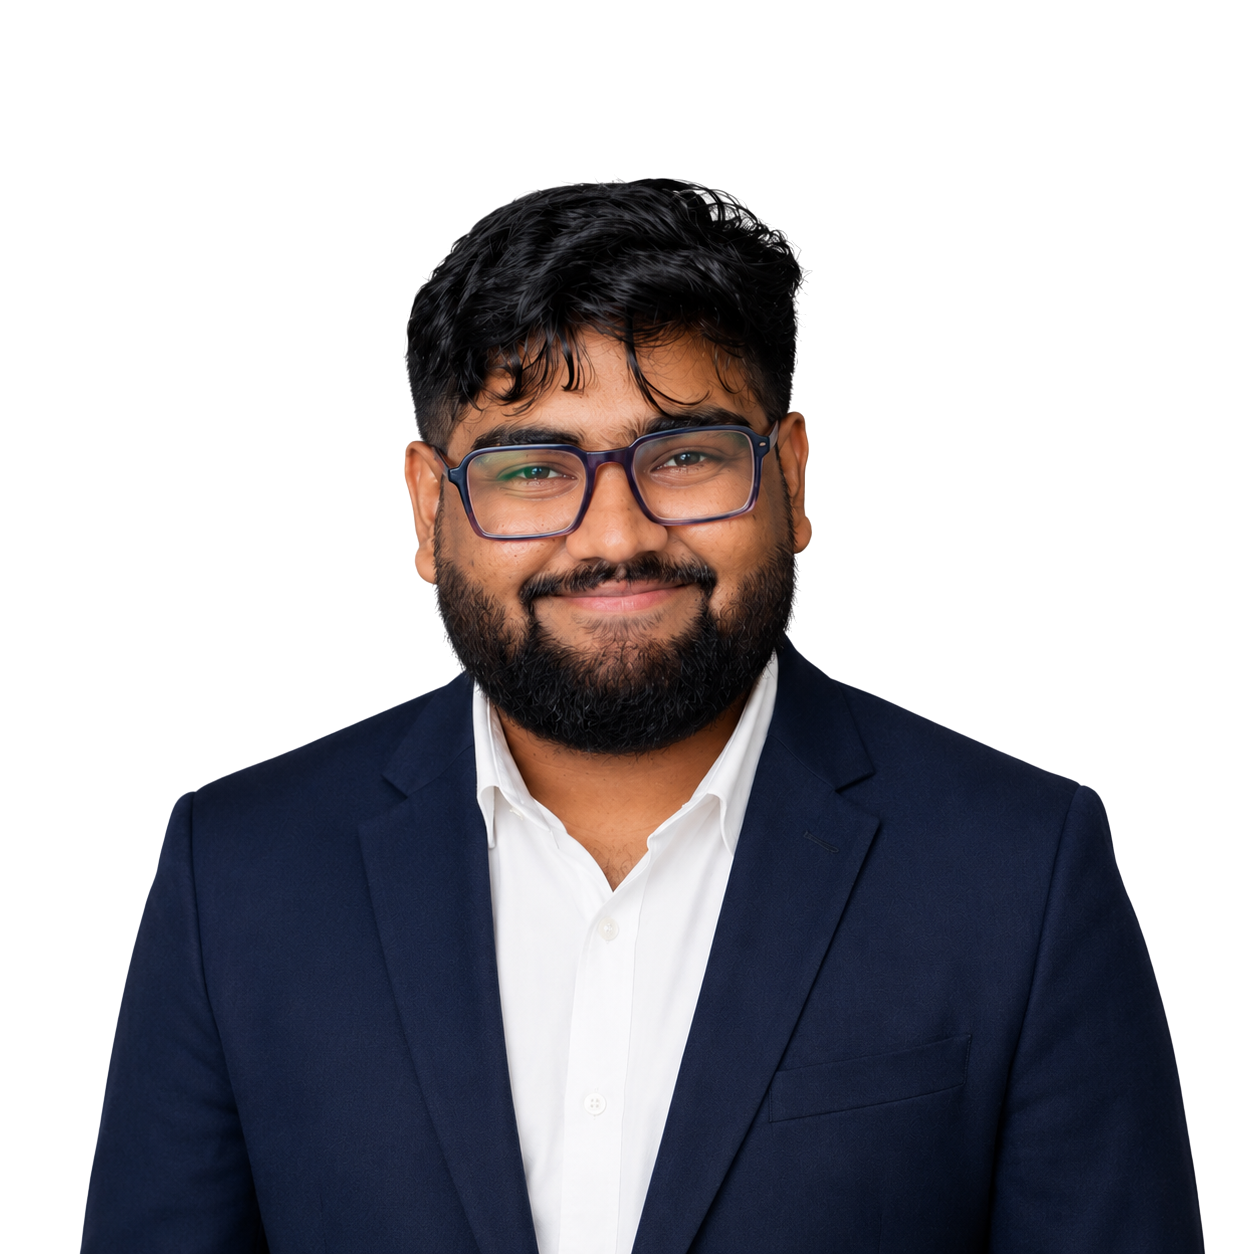
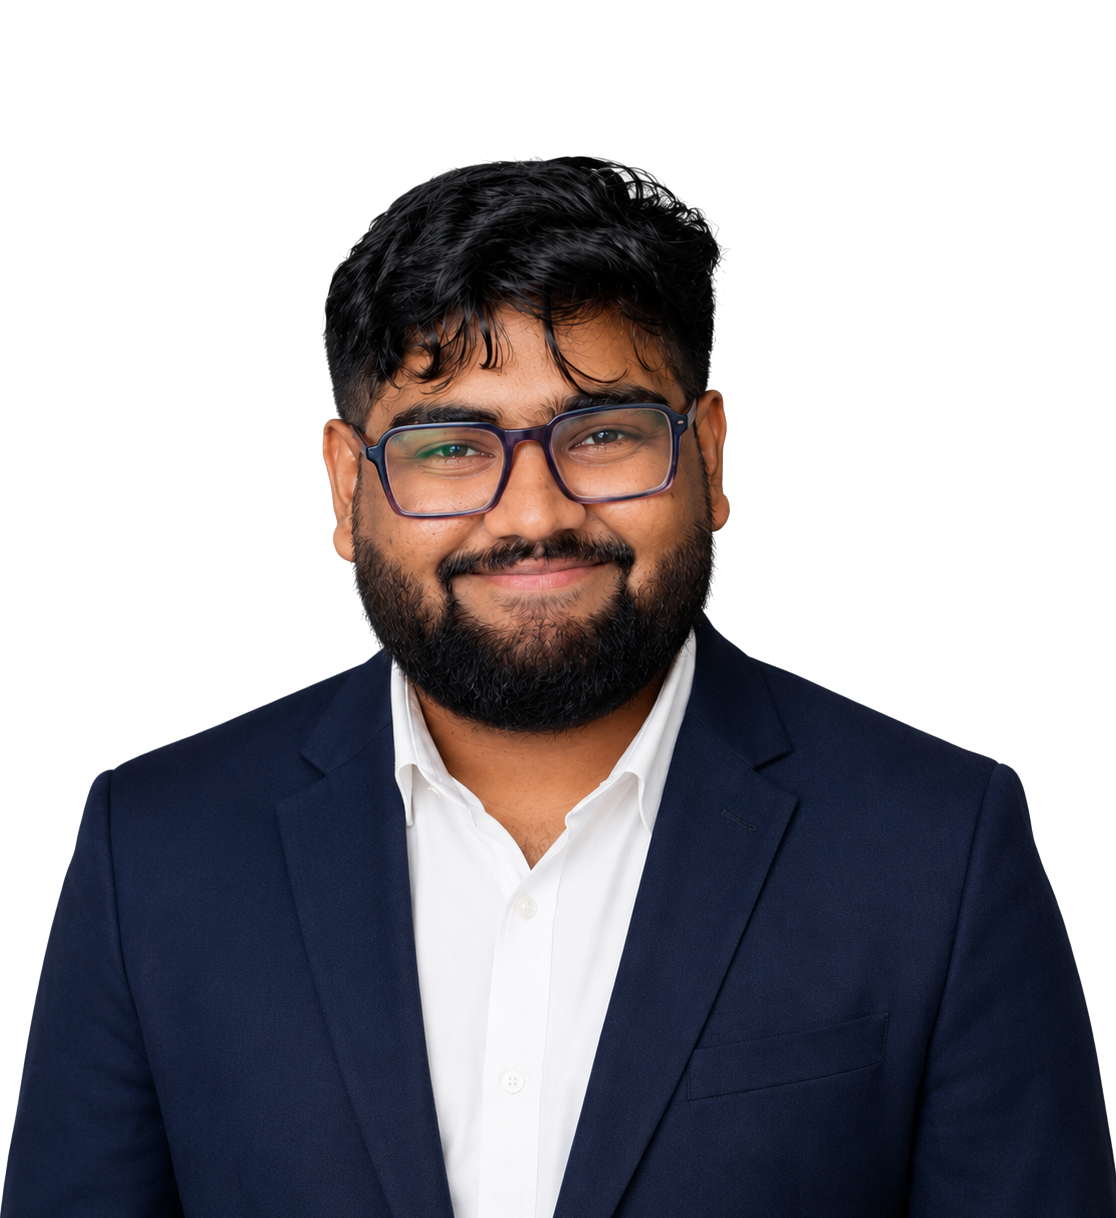
feat: update brand assets and improve meta tags for SEO

diff --git a/src/routes/__root.tsx b/src/routes/__root.tsx
@@ -10,7 +10,10 @@ import {
 import { useEffect, type ReactNode } from "react";
 
 import appCss from "../styles.css?url";
-import logoUrl from "../assets/logo.png";
+import favicon512 from "../assets/brand/favicon-512.png";
+import favicon32 from "../assets/brand/favicon-32.png";
+import appleTouchIcon from "../assets/brand/apple-touch-icon.png";
+import ogImage from "../assets/brand/og-image.png";
 import { reportLovableError } from "../lib/lovable-error-reporting";
 
 function NotFoundComponent() {
@@ -78,15 +81,25 @@ export const Route = createRootRouteWithContext<{ queryClient: QueryClient }>()(
     meta: [
       { charSet: "utf-8" },
       { name: "viewport", content: "width=device-width, initial-scale=1" },
-      { title: "Scaling Ventures - Premium Real Estate & Integrated Communities" },
-      { name: "description", content: "Scaling Ventures builds landmark residential, commercial, and integrated township developments crafted for modern Indian luxury living." },
-      { property: "og:title", content: "Scaling Ventures - Premium Real Estate" },
-      { property: "og:description", content: "Landmark residential, commercial, and integrated township developments." },
+      { name: "theme-color", content: "#0C2A4D" },
+      { title: "Scaling Ventures Pvt. Ltd. - Construction & Real Estate, Chennai" },
+      { name: "description", content: "Scaling Ventures is a professionally managed construction and real-estate development firm in Chennai, delivering innovative, sustainable and high-quality residential developments." },
+      { property: "og:site_name", content: "Scaling Ventures Pvt. Ltd." },
+      { property: "og:title", content: "Scaling Ventures Pvt. Ltd. - Construction & Real Estate, Chennai" },
+      { property: "og:description", content: "A professionally managed construction and real-estate development firm building thoughtfully planned residential developments across Chennai." },
       { property: "og:type", content: "website" },
+      { property: "og:image", content: ogImage },
+      { property: "og:image:width", content: "1200" },
+      { property: "og:image:height", content: "630" },
       { name: "twitter:card", content: "summary_large_image" },
+      { name: "twitter:title", content: "Scaling Ventures Pvt. Ltd. - Construction & Real Estate, Chennai" },
+      { name: "twitter:description", content: "Thoughtfully planned residential developments built on excellence, transparency and timely execution." },
+      { name: "twitter:image", content: ogImage },
     ],
     links: [
-      { rel: "icon", type: "image/png", href: logoUrl },
+      { rel: "icon", type: "image/png", sizes: "32x32", href: favicon32 },
+      { rel: "icon", type: "image/png", sizes: "512x512", href: favicon512 },
+      { rel: "apple-touch-icon", sizes: "180x180", href: appleTouchIcon },
       { rel: "preconnect", href: "https://fonts.googleapis.com" },
       { rel: "preconnect", href: "https://fonts.gstatic.com", crossOrigin: "anonymous" },
       { rel: "stylesheet", href: "https://fonts.googleapis.com/css2?family=Cormorant+Garamond:wght@400;500;600;700&family=Inter:wght@300;400;500;600&display=swap" },

diff --git a/src/routes/index.tsx b/src/routes/index.tsx
@@ -26,8 +26,8 @@ const INK = "#15233B";
 const WHITE = "#FFFFFF";
 const MIST = "#F1F5FB";
 
-// TODO: replace these with the real Scaling Ventures social handles / number.
-const INSTAGRAM_URL = "https://www.instagram.com/";
+const INSTAGRAM_URL = "https://www.instagram.com/scalingventures_pvtltd";
+// TODO: replace these with the real Scaling Ventures Facebook page / number.
 const FACEBOOK_URL = "https://www.facebook.com/";
 // wa.me deep-link opens a WhatsApp chat directly. Replace 91XXXXXXXXXX with the
 // company's WhatsApp number (country code + number, no spaces or symbols).
@@ -705,7 +705,7 @@ function Enquiry() {
               </span>
               <span className="min-w-0">
                 <span className="block text-[10px] tracking-[0.22em] uppercase" style={{ color: `${INK}80` }}>Call us</span>
-                <span className="block font-display text-[18px] leading-tight text-[#0C2A4D] truncate">{CONTACT_PHONE}</span>
+                <span className="block text-[15px] font-medium tracking-wide leading-tight text-[#0C2A4D] truncate">{CONTACT_PHONE}</span>
               </span>
             </a>
             <a href={`mailto:${CONTACT_EMAIL}`}
@@ -715,7 +715,7 @@ function Enquiry() {
               </span>
               <span className="min-w-0">
                 <span className="block text-[10px] tracking-[0.22em] uppercase" style={{ color: `${INK}80` }}>Email us</span>
-                <span className="block font-display text-[18px] leading-tight text-[#0C2A4D] truncate">{CONTACT_EMAIL}</span>
+                <span className="block text-[15px] font-medium tracking-wide leading-tight text-[#0C2A4D] truncate">{CONTACT_EMAIL}</span>
               </span>
             </a>
           </div>

diff --git a/src/lib/coming-soon.tsx b/src/lib/coming-soon.tsx
@@ -38,9 +38,8 @@ function Skyline() {
         <rect x="288" y="66" width="36" height="64" />
         <rect x="350" y="82" width="26" height="48" />
       </g>
-      {/* tallest tower + brand beacon */}
+      {/* tallest tower */}
       <rect x="140" y="30" width="22" height="100" fill="#FFFFFF" fillOpacity="0.12" />
-      <rect x="148" y="22" width="6" height="10" fill={ORANGE} fillOpacity="0.9" />
     </svg>
   );
 }